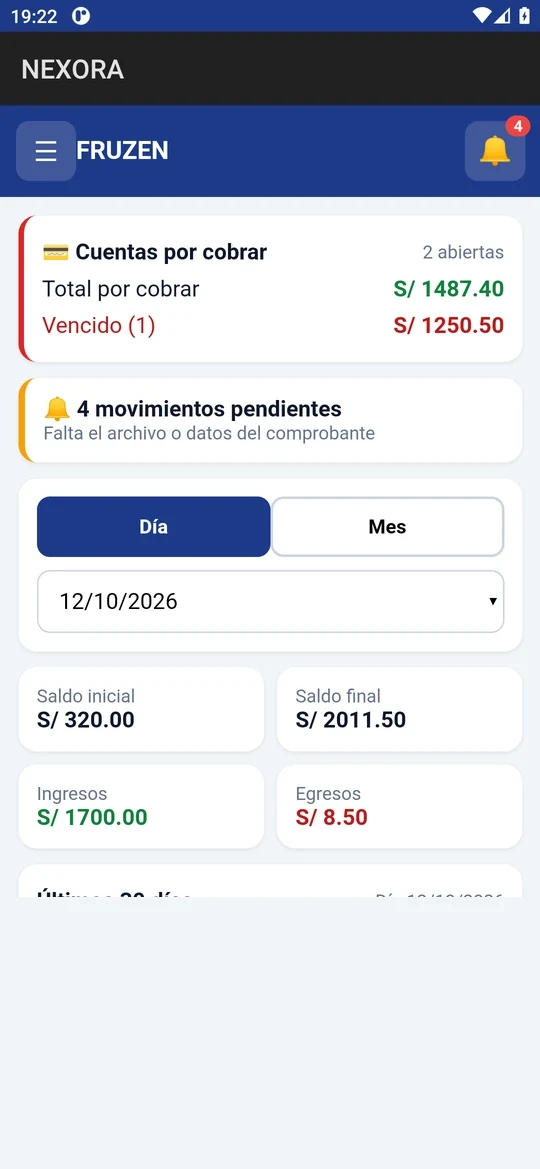
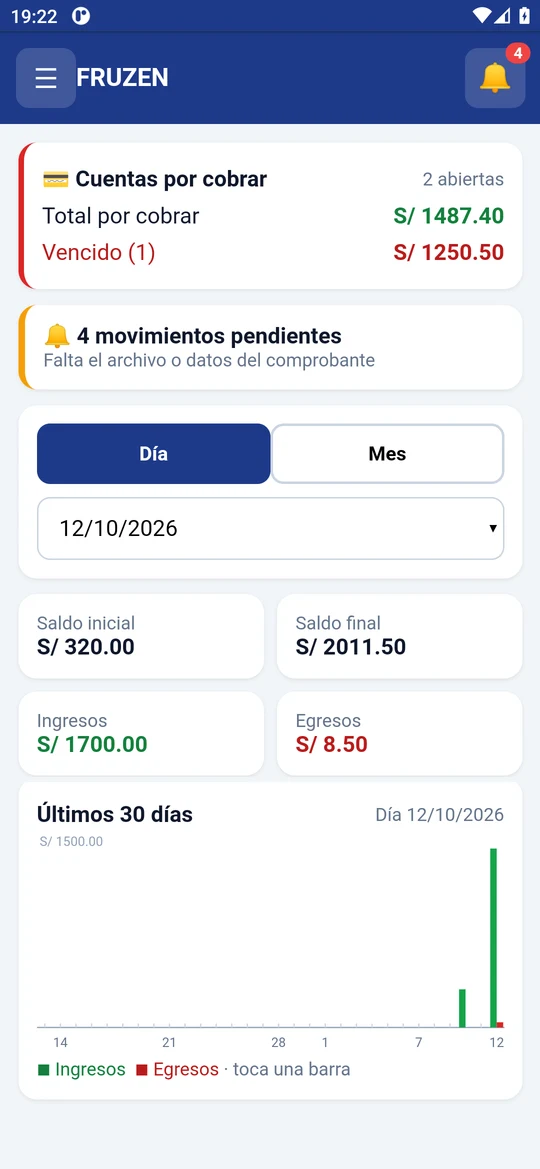
NEXORA: captura completa sin franja; deck reacciona al cursor

diff --git a/index.html b/index.html
@@ -8,7 +8,7 @@
 <meta name="theme-color" content="#ffffff">
 <link rel="icon" href="assets/favicon.svg" type="image/svg+xml">
 <link rel="preload" href="assets/fonts/InterDisplay-SemiBold.woff2" as="font" type="font/woff2" crossorigin>
-<link rel="stylesheet" href="assets/site.css?v=deck2">
+<link rel="stylesheet" href="assets/site.css?v=deck3">
 </head>
 <body>
 <a class="skip" href="#main">Saltar al contenido</a>
@@ -21,7 +21,7 @@
   <h1 id="hero-t">Herramientas para superarte<span class="dot">.</span></h1>
   <p class="lead">PROCESA, NEXORA, CortoStudio y Mis Finanzas: apps Android en español para llevar tu planta, tu negocio y tus ideas un paso más allá.</p>
   <p class="cta"><a class="btn" href="#apps">Ver las apps</a><a class="more" href="#contacto">Escríbenos</a></p>
-  <div class="stage deck"><figure class="phone"><img src="assets/img/misfinanzas-negocio.webp" width="540" height="1169" alt="Mis Finanzas: caja del día de un negocio de producción de alimentos"></figure><figure class="phone"><img src="assets/img/nexora-cxc.webp" width="540" height="1169" alt="NEXORA: panel con cuentas por cobrar, caja e ingresos"></figure><figure class="phone"><img src="assets/img/procesa-diagrama.webp" width="540" height="1169" alt="PROCESA: diagrama de flujo HACCP de una mermelada"></figure><figure class="phone"><img src="assets/img/corto-inicio.webp" width="540" height="1169" alt="CortoStudio: editar un cortometraje"></figure><figure class="phone"><img src="assets/img/misfinanzas-inicio.webp" width="540" height="1169" alt="Mis Finanzas: inicio"></figure><figure class="phone"><img src="assets/img/procesa-inicio.webp" width="540" height="1169" alt="PROCESA: categorías de recetas"></figure></div>
+  <div class="stage deck"><figure class="phone"><img src="assets/img/misfinanzas-negocio.webp" width="540" height="1169" alt="Mis Finanzas: caja del día de un negocio de producción de alimentos"></figure><figure class="phone"><img src="assets/img/nexora-cxc.webp?v=3" width="540" height="1169" alt="NEXORA: panel con cuentas por cobrar, caja e ingresos"></figure><figure class="phone"><img src="assets/img/procesa-diagrama.webp" width="540" height="1169" alt="PROCESA: diagrama de flujo HACCP de una mermelada"></figure><figure class="phone"><img src="assets/img/corto-inicio.webp" width="540" height="1169" alt="CortoStudio: editar un cortometraje"></figure><figure class="phone"><img src="assets/img/misfinanzas-inicio.webp" width="540" height="1169" alt="Mis Finanzas: inicio"></figure><figure class="phone"><img src="assets/img/procesa-inicio.webp" width="540" height="1169" alt="PROCESA: categorías de recetas"></figure></div>
 </section>
 <section class="trio" id="apps" aria-labelledby="apps-t">
   <h2 id="apps-t" class="sr">Las cuatro apps</h2>
@@ -57,7 +57,7 @@
     <p class="meta">App para Android</p>
   </div>
   <div class="show rev">
-    <div class="shot"><figure class="phone "><img src="assets/img/nexora-cxc.webp" width="540" height="1169" alt="NEXORA: panel con cuentas por cobrar, caja e ingresos" loading="lazy"></figure></div>
+    <div class="shot"><figure class="phone "><img src="assets/img/nexora-cxc.webp?v=3" width="540" height="1169" alt="NEXORA: panel con cuentas por cobrar, caja e ingresos" loading="lazy"></figure></div>
     <div class="list">
       <ul class="feats" aria-label="Funciones de NEXORA: toca una marcada para ver su pantalla"><li><button type="button" class="feat" data-shot="assets/img/nexora-cotizacion.webp?v=6" data-alt="NEXORA: lista de cotizaciones" aria-pressed="true">Cotizaciones en PDF</button></li><li><span class="feat-plain">Facturas y boletas, con facturación electrónica SUNAT</span></li><li><button type="button" class="feat" data-shot="assets/img/nexora-guia.webp?v=6" data-alt="NEXORA: guía de remisión" aria-pressed="false">Guías de remisión</button></li><li><span class="feat-plain">Inventario con kardex</span></li><li><button type="button" class="feat" data-shot="assets/img/nexora-saldos.webp?v=6" data-alt="NEXORA: caja y saldos por cuenta bancaria" aria-pressed="false">Caja y cuentas bancarias</button></li><li><span class="feat-plain">Pagos recibidos por Yape y Plin</span></li><li><span class="feat-plain">Reportes mensuales en PDF y Excel, e impresión Bluetooth</span></li></ul>
       <p class="note">Las capturas muestran datos de ejemplo. <a href="privacidad-nexora.html">Política de privacidad de NEXORA</a></p>
@@ -137,6 +137,6 @@
   </nav>
   <p class="legal-line"><span>© 2026 Rouje Technologies®</span><span>Tipografía Inter, de Rasmus Andersson (SIL Open Font License).</span></p>
 </div></footer>
-<script src="assets/site.js?v=deck2" defer></script>
+<script src="assets/site.js?v=deck3" defer></script>
 </body>
 </html>

diff --git a/assets/site.js b/assets/site.js
@@ -34,4 +34,10 @@
 function lay(){ps.forEach(function(p,k){var o=((k-i)%n+n)%n;if(o>n/2)o-=n;p.setAttribute('data-p',Math.max(-3,Math.min(3,o)));p.setAttribute('aria-hidden',o?'true':'false');});}
 lay();if(matchMedia('(prefers-reduced-motion: reduce)').matches)return;
 function go(){clearInterval(t);t=setInterval(function(){if(!document.hidden){i=(i+1)%n;lay();}},3800);}go();
-d.addEventListener('mouseenter',function(){clearInterval(t)});d.addEventListener('mouseleave',go);})();
+var last=0,raf=0,mx=0,my=0;function step(k){i=((i+k)%n+n)%n;lay();last=Date.now();}
+d.addEventListener('pointermove',function(e){if(e.pointerType!=='mouse')return;var r=d.getBoundingClientRect();mx=(e.clientX-r.left)/r.width*2-1;my=(e.clientY-r.top)/r.height*2-1;
+if(!raf)raf=requestAnimationFrame(function(){raf=0;d.style.setProperty('--mx',mx.toFixed(3));d.style.setProperty('--my',my.toFixed(3));});
+if(Math.abs(mx)>.55&&Date.now()-last>1300)step(mx>0?1:-1);});
+d.addEventListener('pointerenter',function(e){if(e.pointerType==='mouse'){clearInterval(t);d.classList.add('live');}});
+d.addEventListener('pointerleave',function(){d.classList.remove('live');d.style.setProperty('--mx',0);d.style.setProperty('--my',0);go();});
+ps.forEach(function(p,k){p.addEventListener('click',function(){var o=+p.getAttribute('data-p');if(o)step(o);});});})();

diff --git a/assets/site.css b/assets/site.css
@@ -207,3 +207,10 @@ ul { list-style: none; margin: 0; padding: 0; }
 .stage.deck .phone[data-p="-3"] { z-index: 2; transform: translateX(-190%) scale(.5); }
 .stage.deck .phone[data-p="3"] { z-index: 2; transform: translateX(90%) scale(.5); }
 @media (prefers-reduced-motion: reduce) { .stage.deck .phone { transition: none; } }
+.stage.deck .phone { translate: calc(var(--mx,0) * var(--d,0) * 1px) calc(var(--my,0) * var(--d,0) * -.35px); transition: transform 1.6s cubic-bezier(.65,0,.35,1), opacity 1.6s cubic-bezier(.65,0,.35,1), filter 1.6s ease, translate .9s cubic-bezier(.22,1,.36,1); cursor: pointer; }
+.stage.deck .phone[data-p="0"] { --d: -14; cursor: default; }
+.stage.deck .phone[data-p="-1"], .stage.deck .phone[data-p="1"] { --d: -30; }
+.stage.deck .phone[data-p="-2"], .stage.deck .phone[data-p="2"] { --d: -46; }
+.stage.deck.live .phone[data-p="0"] { filter: drop-shadow(0 18px 30px rgba(20,30,60,.18)); }
+@media (prefers-reduced-motion: reduce) { .stage.deck .phone { translate: none; } }
+
